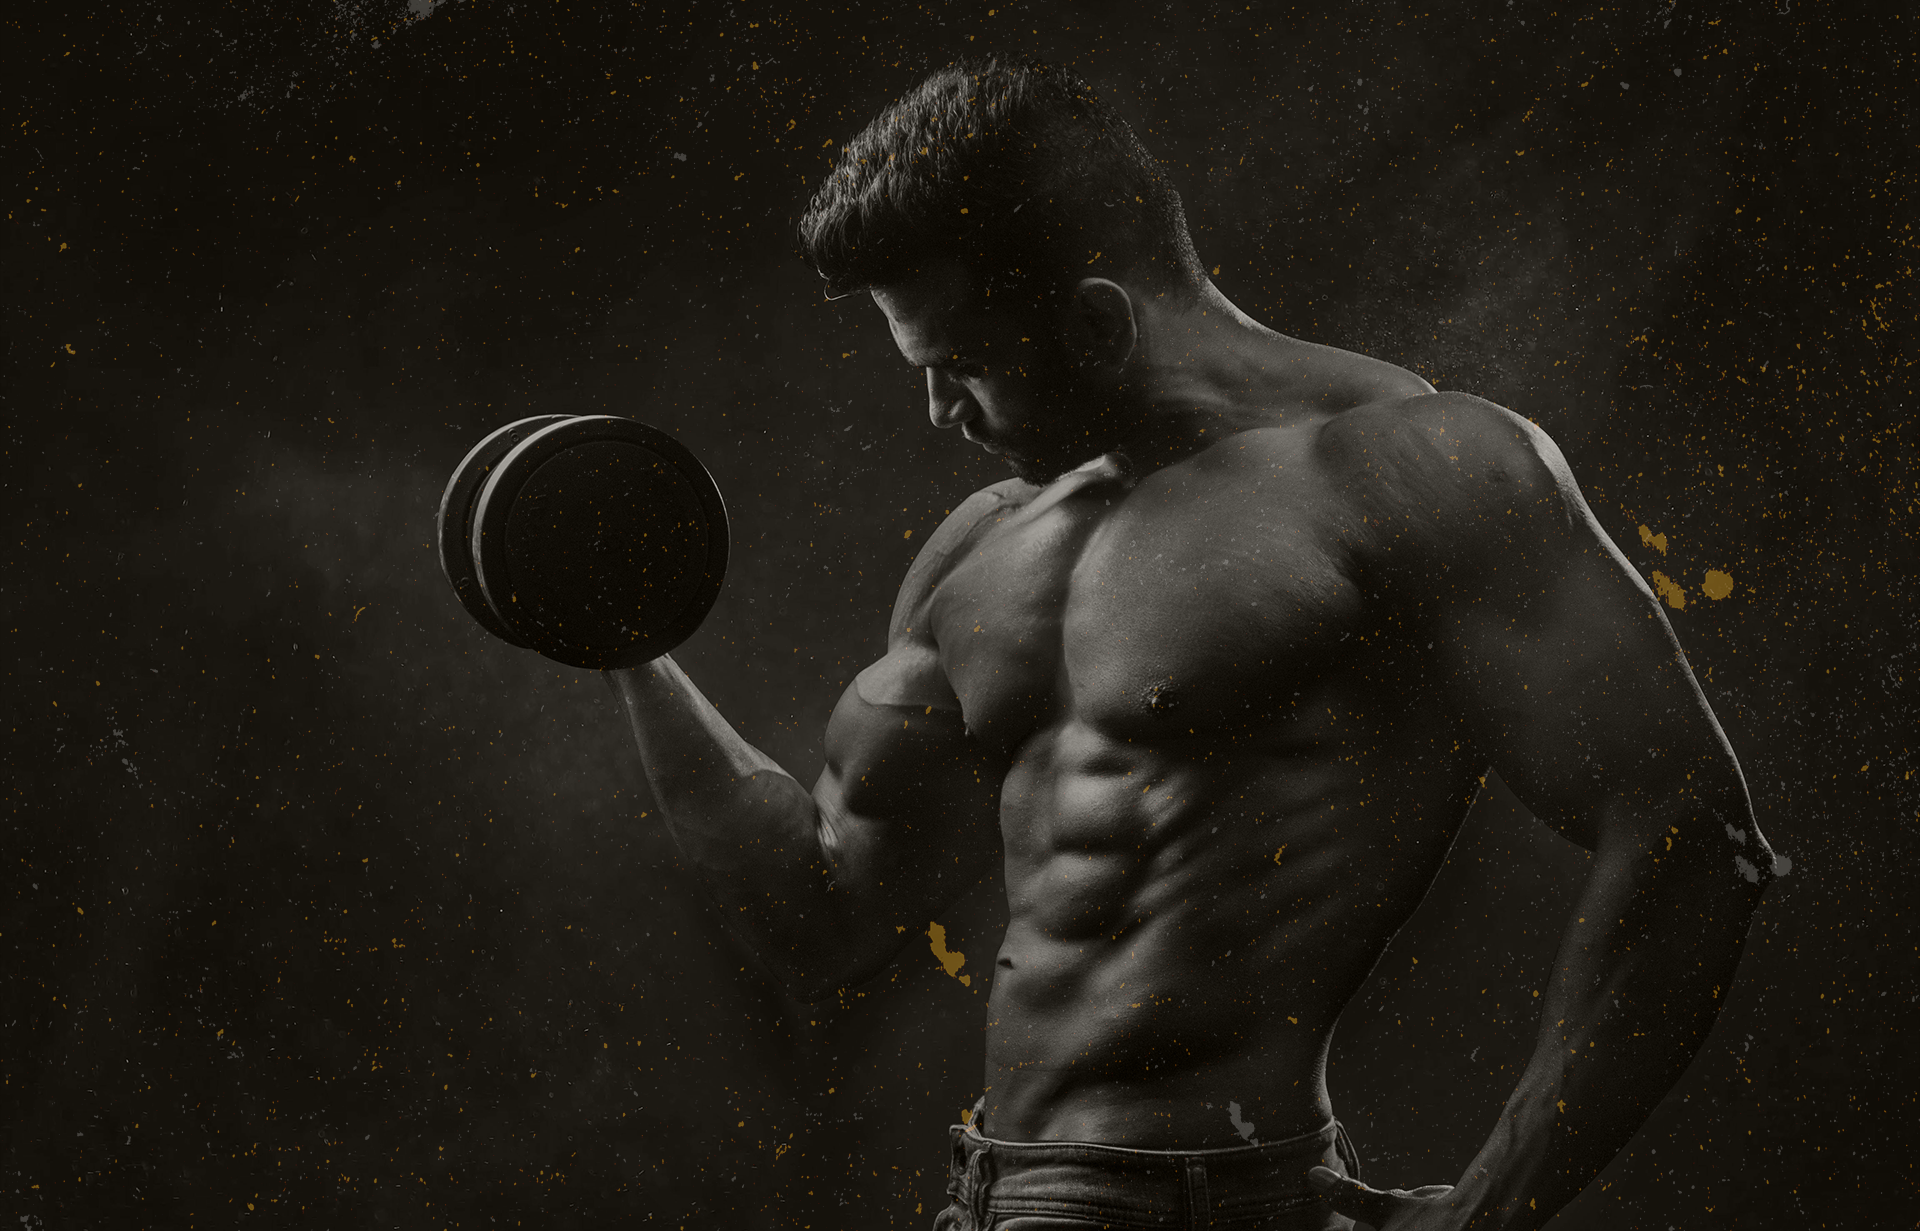
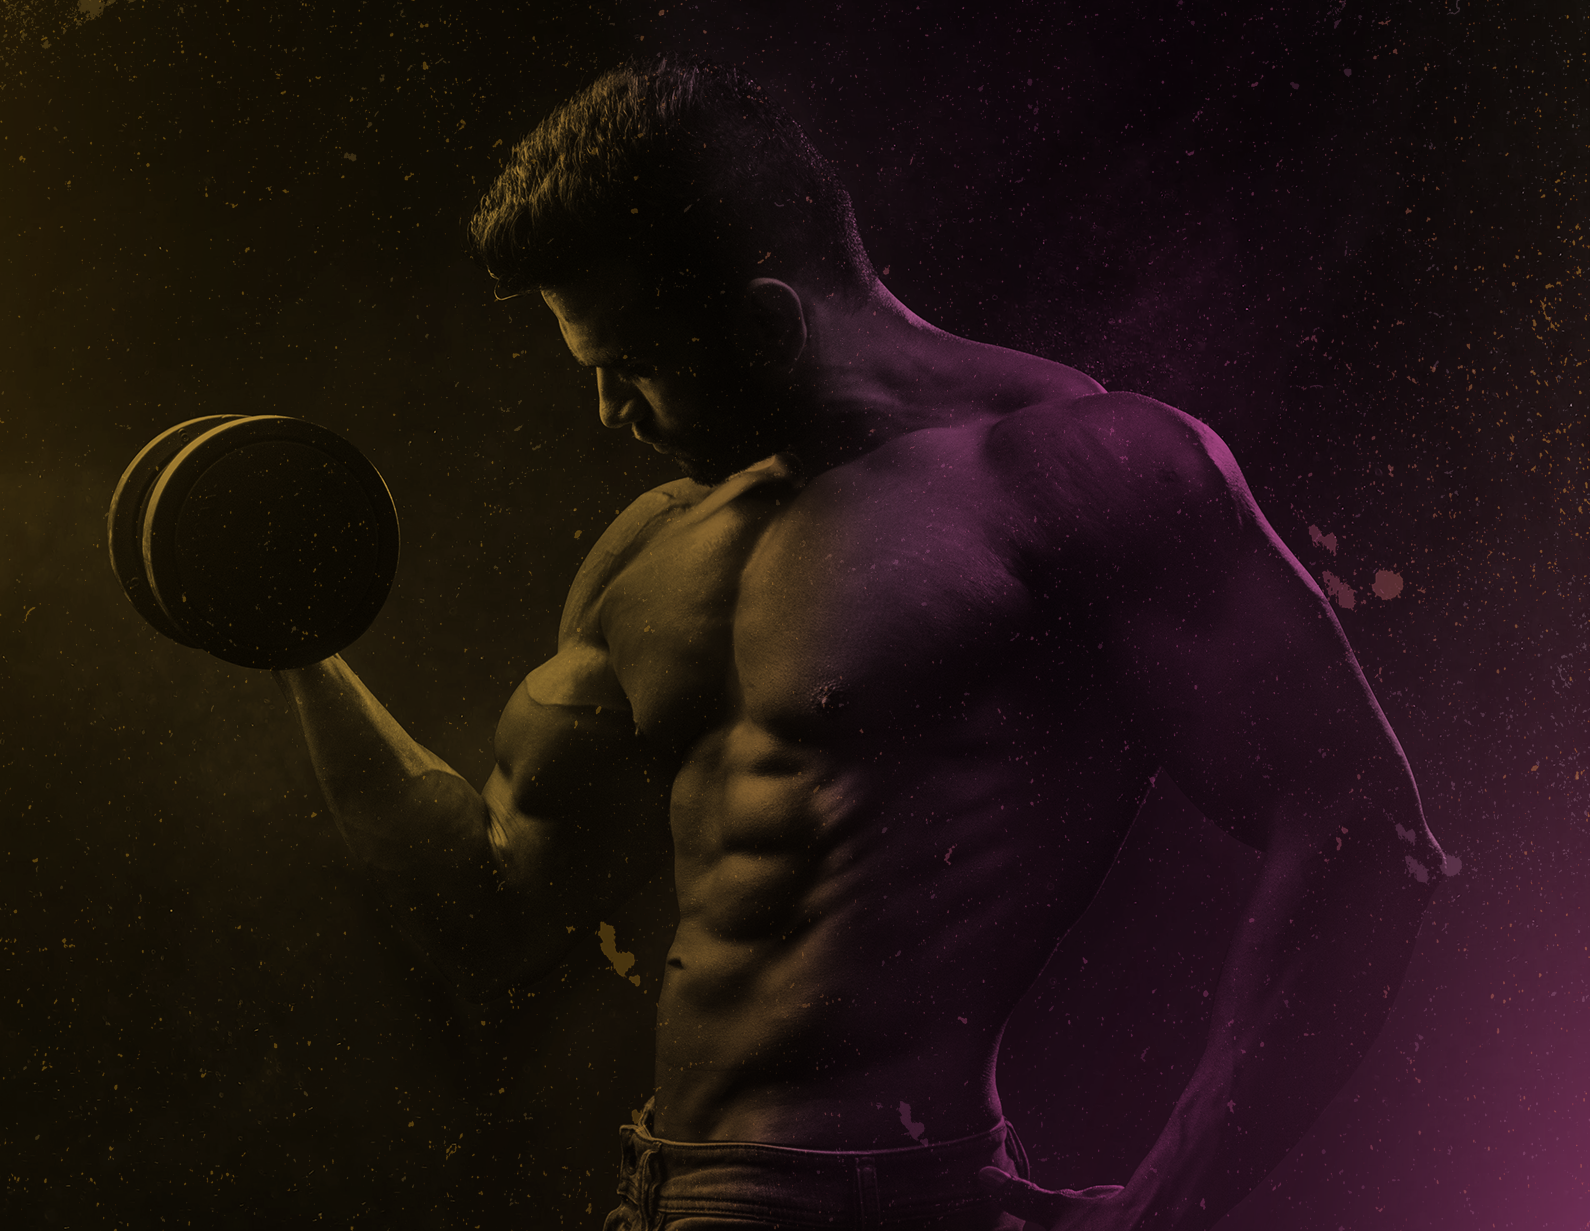
adicionando programas com fotos interativas

diff --git a/assets/css/style.css b/assets/css/style.css
@@ -4,7 +4,8 @@
     --cor-terceira: #EBAB22;
     --cor-quarta: #6B5F45;
     --cor-quinta: #413D34;
-    --cor-sexta: #33302A;
+    --cor-sexta: #de55ad;
+    --cor-setima: #7c1759;
 }
 
 *{
@@ -14,7 +15,7 @@
 }
 
 body{
-    background-color: var(--cor-sexta);
+    background-color: var(--cor-quinta);
 }
 
 .header{
@@ -26,8 +27,8 @@ body{
     padding: 1rem;
     box-sizing: border-box;
     font-size: 20px;
-    background: #00000059;
-    box-shadow: 0px 0px 15px -7px rgba(0,0,0,0.75);
+    background: #0000008e;
+    box-shadow: 0px 0px 15px -7px rgba(0, 0, 0, 0.945);
 }
 
 .logo-loja{
@@ -73,19 +74,21 @@ body{
 .top-info{
     background-image: url(../img/background.png);
     background-position: center center;
-    height: 870px;
+    background-size: cover;
+    height: 1000px;
 }
 
 .welcome{
     display: flex;
     flex-direction: column;
-    text-align: center;
-    align-items: center;
-    width: 500px;
-    margin: auto;
+    text-align: left;
+    align-items: left;
+    width: 1000px;
     margin-top: 160px;
     color: white;
     cursor: default;
+    box-sizing: border-box;
+    padding: 3rem;
 }
 
 .welcome h2{
@@ -103,19 +106,120 @@ body{
 }
 
 .welcome p{
-    margin-bottom: 45px;
-    font-weight: 100;
+    font-size: 40px;
+    font-weight: 300;
+    text-transform: uppercase;
+    margin-top: 10px;
+    border-right: 2px solid rgba(255, 255, 255, .75);
+    width: 0;
+    white-space: nowrap;
+    overflow: hidden;
+}
+
+.typing-animation{
+    animation: blink-cursors 500ms infinite normal,
+    typing 5s steps(48) 1s normal both;
+}
+
+@keyframes blink-cursors{
+    from{
+        border-right-color : rgba(255, 255, 255, .75);
+    }
+
+    to{
+        border-right-color : transparent;
+    }
+}
+
+@keyframes typing {
+    from {
+        width: 0;
+    }
+    to{
+        width: 56rem;
+    }
 }
 
 .read-more{
     width: 200px;
     font-size: 30px;
     color: white;
-    background: var(--cor-terceira);
+    background: linear-gradient(133deg, rgba(235,171,34,1) 24%, rgba(222,85,173,1) 91%);
     border: none;
     border-radius: 10px;
     height: 80px;
     cursor: pointer;
+    margin-top: 50px;
+}
+
+.programs{
+    background: linear-gradient(133deg, rgba(235,171,34,1) 5%, rgba(222,85,173,1) 97%);;
+    display: flex;
+    flex-direction: column;
+    align-items: center;
+    max-width: 1500px;
+    box-sizing: border-box;
+    padding: 20px;
+    font-size: 30px;
+    font-weight: 400;
+    color: white;
+}
+
+.programs hr{
+    margin-bottom: 30px;
+    border: 1px solid #fff;
+    width: 30px;
+}
+
+.programs a img{
+    overflow: hidden;
+    height: 500px;
+    width: 340px;
+    object-fit: cover;
+
+}
+
+.link{
+    transition: 200ms;
+    box-shadow: 0px 0px 20px -7px rgba(0,0,0,1);
+    height: 500px;
+}
+
+.link a{
+    text-decoration: none;
+    height: auto;
+    
+}
+
+.links p{
+    position: relative;
+    color: white;
+    text-align: center;
+    text-decoration: none;
+    font-size: 40px;
+    list-style: none;
+    bottom: 50%;
+    font-weight: 600;
+}
+
+.links{
+    display: flex;
+    justify-content: space-between;
+    width: 1060px;
+    transition: 200ms;
+    margin-bottom: 50px;
+}
+
+.links:hover > .link{
+    opacity: 0.6;
+    transform: scale(0.95);
+    transition: 200ms;
+}
+
+.links:hover > .link:hover{
+    opacity: 1;
+    transform: scale(1.03);
+    transition: 200ms ;
 }
 
 .footer {
@@ -125,12 +229,12 @@ body{
 
 .footer-top{
     display: flex;
-    color: var(--cor-quinta);
+    color: var(--cor-setima);
     font-size: 20px;
     width: 100%;
     justify-content: space-between;
     height: 200px;
-    background: var(--cor-primeira);
+    background: var(--cor-terceira);
     box-sizing: border-box;
     padding: 4rem;
     box-shadow: 0px 5px 9px 0px rgba(0,0,0,0.38);
@@ -148,6 +252,7 @@ body{
     margin-right: 10px;
     cursor: default;
     transition: 200ms ease-in-out;
+    color: var(--cor-quinta);
 }
 
 .footer-top-items i:hover{

diff --git a/index.html b/index.html
@@ -9,6 +9,7 @@
     <link rel="preconnect" href="https://fonts.gstatic.com" crossorigin>
     <link href="https://fonts.googleapis.com/css2?family=Oswald:wght@200..700&display=swap" rel="stylesheet">
     <link href="https://fonts.googleapis.com/icon?family=Material+Icons" rel="stylesheet">
+    <script src="./assets/index.js"></script>
 </head>
 <body>
     <div class="top-info">
@@ -37,8 +38,36 @@
         <div class="welcome">
             <h2>bem vindo a</h2>
             <h1>ACADEMY</h1>
-            <p>Lorem ipsum dolor sit amet consectetur adipisicing elit. Obcaecati saepe commodi, delectus molestias animi vero quisquam unde expedita corporis porro enim explicabo, facilis earum necessitatibus nemo nam magni fugit cum?</p>
+            <p class="typing-animation typing">change your life, change your body, change your mind.</p>
             <button class="read-more">Ler Mais</button>
+        </div>
+    </div>
+
+    <div class="programs">
+        <p>NOSSOS PROGRAMAS</p>
+        <hr>
+        <div class="links">
+            <div class="link">
+                <a href="#">
+                    <img src="./assets/img/cross.png" alt="cross-fit">
+                    <p>Crossfit <br> Estúdio</p>
+                </a>
+            </div>
+            
+            <div class="link">
+                <a href="#">
+                    <img src="./assets/img/fitness.png" alt="fitness">
+                    <p>Fitness <br>Estúdio</p>
+                </a>
+            </div>
+            
+            <div class="link">
+                <a href="#">
+                    <img src="./assets/img/personal.png" alt="personal">
+                    <p>Personal <br> Training</p>   
+                </a>
+            </div>
+            
         </div>
     </div>
 
